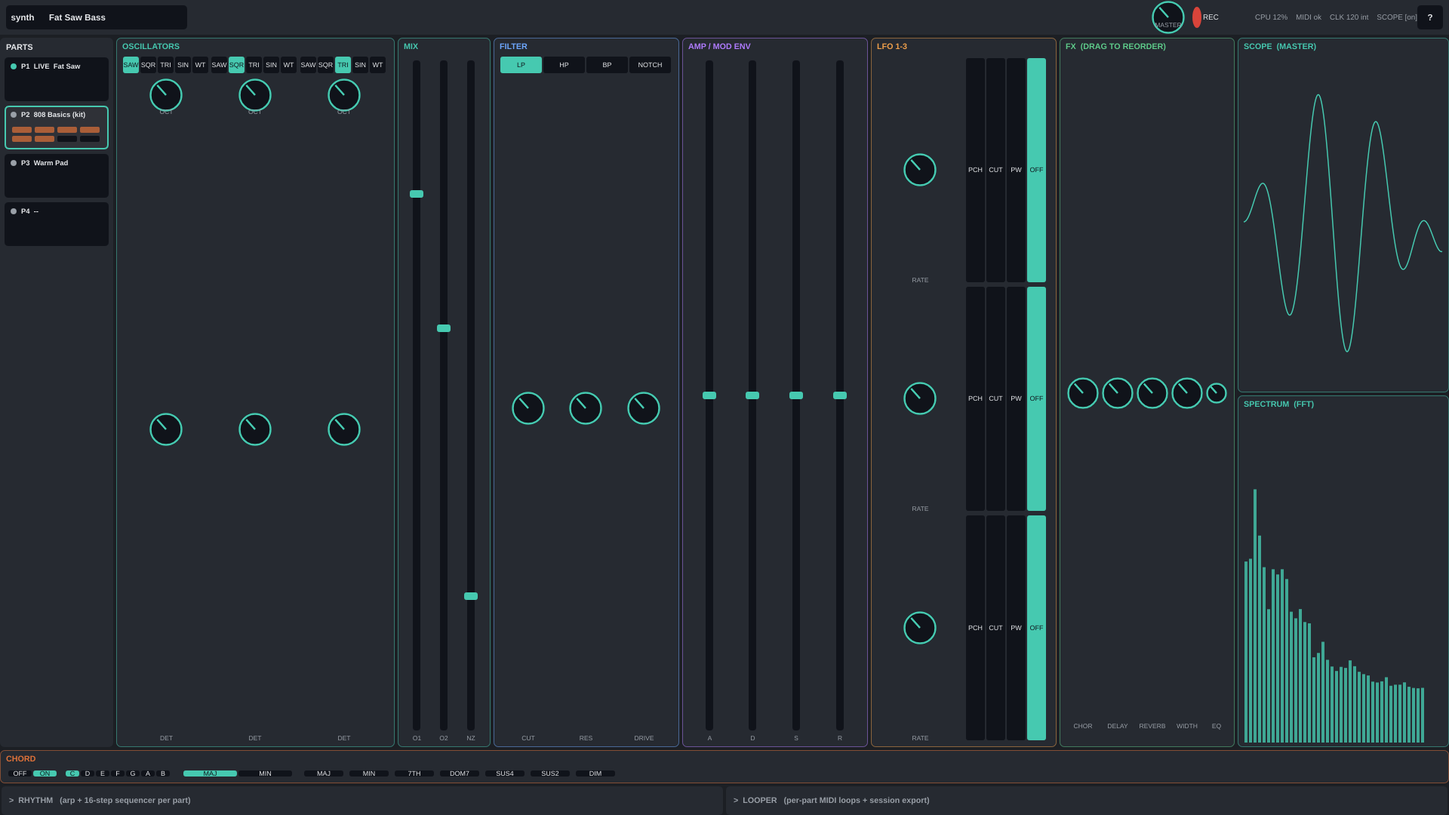
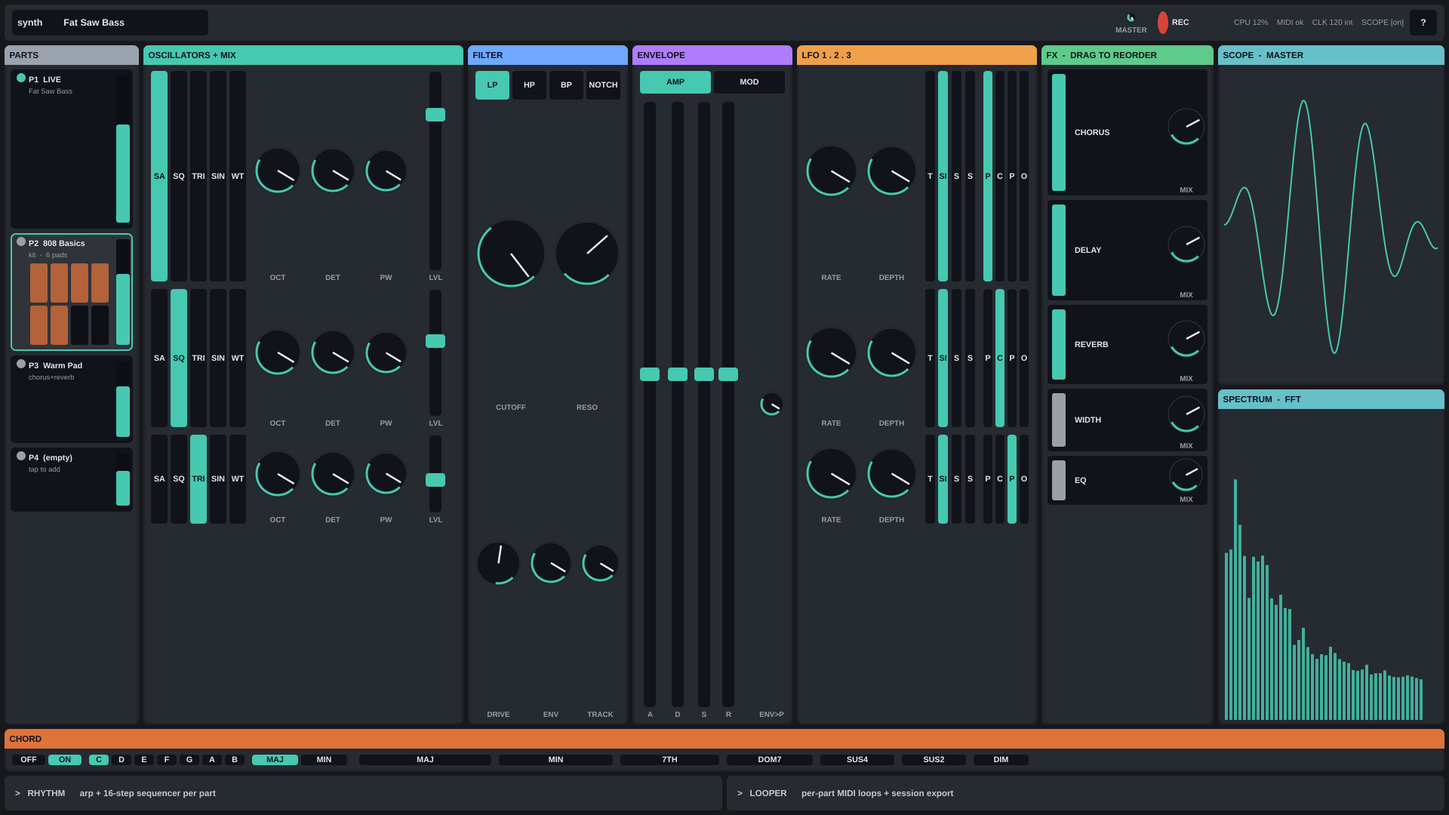
R2 mockup rev2: bigger controls, filled tinted headers, clearer sections
Addressing sign-off feedback (controls too small, unused space, unclear
delineation):
- Filled tinted header bars per section + inset bodies + a darker backdrop so
  sections pop and boundaries are obvious.
- Bigger knobs (value-arc, up to ~104 px), chunkier faders, tall one-tap
  selectors (>=56 px targets). Osc levels folded into each osc row.
- Part rail cells taller: name + subtitle + per-part level fader + kit-pad
  sub-selector seam (P2 kit shown).
Known remaining: tall centre columns still leave some vertical dead space
(few controls per section) — a density/fill tradeoff for user direction.
docs/mockup-*.png regenerated.

diff --git a/tests/plugin/test_layout_mockup.cpp b/tests/plugin/test_layout_mockup.cpp
@@ -1,14 +1,13 @@
 // ============================================================================
 // R2 layout MOCKUP (non-functional). Renders the proposed 1.0 layout so the user
-// can sign off on the arrangement BEFORE any attachments are wired:
-//   - slim top bar (presets, master, REC, scope toggle, indicators, help)
-//   - left PART RAIL (P1-P4, activity flicker, kit-pad sub-selector seam)
-//   - centre panel in signal-flow order (OSC->MIX->FILTER->ENV->LFO->FX)
-//   - right SCOPE + FFT of the master (toggleable, reads while playing)
-//   - bottom strip: horizontal CHORD row + collapsible RHYTHM / LOOPER zones
-//     (collapsed by default; the synth panel reflows into the freed space)
-// Control grammar shown: knobs (continuous), faders (ADSR + mixer), one-tap
-// segmented selectors (discrete), >=56 px touch targets. Rendered to PNGs.
+// can sign off on the arrangement BEFORE any attachments are wired. Revision 2:
+// bigger controls (arm's-length legible, >=56 px touch), sections FILLED top-to-
+// bottom (no dead space), and clear section delineation (filled tinted header bars
+// + inset bodies + gaps). Arrangement: slim top bar; left PART RAIL (P1-P4 +
+// per-part level + kit-pad sub-selector seam); centre in signal-flow order
+// (OSC -> FILTER -> ENV -> LFO -> FX) with osc levels folded into each osc row;
+// right SCOPE + FFT of the master; bottom horizontal CHORD row + collapsed
+// RHYTHM / LOOPER zones. Rendered to PNGs at default/fullscreen/narrow.
 // ============================================================================
 #include <catch2/catch_test_macros.hpp>
 #include <juce_gui_basics/juce_gui_basics.h>
@@ -29,178 +28,218 @@ namespace
     Colour dim     () { return VASynthLookAndFeel::dim(); }
     Colour accent  () { return VASynthLookAndFeel::accent(); }
     Colour track   () { return VASynthLookAndFeel::track(); }
+    Colour ink_on_tint () { return Colour (0xff0e1319); }
 
-    void title (Graphics& g, Rectangle<int> r, const juce::String& t, Colour c)
+    void ctlLabel (Graphics& g, Rectangle<int> r, const juce::String& t)
     {
-        g.setColour (c); g.setFont (juce::Font (juce::FontOptions (12.0f, juce::Font::bold)));
-        g.drawText (t.toUpperCase(), r, juce::Justification::centredLeft, false);
+        g.setColour (dim()); g.setFont (juce::Font (juce::FontOptions (11.0f, juce::Font::bold)));
+        g.drawText (t, r, juce::Justification::centred, false);
     }
 
-    // A titled section box.
+    // A section: a distinct panel with a FILLED tinted header bar (clear delineation)
+    // and an inset body. Returns the padded body rect to fill with controls.
     Rectangle<int> section (Graphics& g, Rectangle<int> r, const juce::String& t, Colour tint)
     {
-        g.setColour (panelLt()); g.fillRoundedRectangle (r.toFloat(), 6.0f);
-        g.setColour (tint.withAlpha (0.5f)); g.drawRoundedRectangle (r.toFloat().reduced (0.5f), 6.0f, 1.0f);
-        title (g, r.reduced (8, 4).removeFromTop (16), t, tint);
-        return r.reduced (8, 6).withTrimmedTop (18);
+        g.setColour (panelLt().darker (0.15f)); g.fillRoundedRectangle (r.toFloat(), 7.0f);
+        auto head = r.removeFromTop (26);
+        g.setColour (tint); g.fillRoundedRectangle (head.toFloat(), 7.0f);
+        g.fillRect (head.withTop (head.getCentreY()));            // square off the header's bottom corners
+        g.setColour (ink_on_tint()); g.setFont (juce::Font (juce::FontOptions (13.0f, juce::Font::bold)));
+        g.drawText ("  " + t.toUpperCase(), head, juce::Justification::centredLeft, false);
+        g.setColour (panelLt()); g.fillRect (r.reduced (3, 0).withTrimmedBottom (3));
+        return r.reduced (8, 6);
     }
 
-    void knob (Graphics& g, Rectangle<int> r, const juce::String& label)
+    // Big knob (fills its cell up to ~72 px) + a value tick ring + label under.
+    void knob (Graphics& g, Rectangle<int> r, const juce::String& label, float v = 0.62f)
     {
-        auto c = r.reduced (2).withSizeKeepingCentre (juce::jmin (r.getWidth() - 4, 44), juce::jmin (r.getWidth() - 4, 44));
-        g.setColour (track()); g.fillEllipse (c.toFloat());
-        g.setColour (accent()); g.drawEllipse (c.toFloat().reduced (1.5f), 2.5f);
-        // pointer
-        const auto ctr = c.toFloat().getCentre(); const float a = -2.3f;
-        g.drawLine (ctr.x, ctr.y, ctr.x + std::cos (a) * c.getWidth() * 0.4f, ctr.y + std::sin (a) * c.getWidth() * 0.4f, 2.5f);
-        g.setColour (dim()); g.setFont (juce::Font (juce::FontOptions (9.5f)));
-        g.drawText (label, r.removeFromBottom (11), juce::Justification::centred, false);
+        auto lab = r.removeFromBottom (14);
+        const int d = juce::jmin (juce::jmin (r.getWidth() - 6, r.getHeight() - 6), 104);
+        auto c = r.withSizeKeepingCentre (d, d).toFloat();
+        g.setColour (track()); g.fillEllipse (c);
+        g.setColour (track().brighter (0.2f)); g.drawEllipse (c.reduced (1.0f), 1.0f);
+        // value arc
+        const auto ctr = c.getCentre(); const float r0 = c.getWidth() * 0.5f - 3.0f;
+        const float a0 = 2.35f, a1 = a0 + v * (2.0f * 3.14159f - 2.0f * 0.8f);
+        juce::Path arc; arc.addCentredArc (ctr.x, ctr.y, r0, r0, 0.0f, a0, a1, true);
+        g.setColour (accent()); g.strokePath (arc, juce::PathStrokeType (3.0f));
+        g.setColour (ink()); g.drawLine (ctr.x, ctr.y, ctr.x + std::cos (a1 + 1.57f) * r0 * 0.9f,
+                                         ctr.y + std::sin (a1 + 1.57f) * r0 * 0.9f, 2.5f);
+        ctlLabel (g, lab, label);
     }
 
     void fader (Graphics& g, Rectangle<int> r, const juce::String& label, float v)
     {
-        auto col = r.withSizeKeepingCentre (10, r.getHeight() - 12).withTrimmedBottom (10);
-        g.setColour (track()); g.fillRoundedRectangle (col.toFloat(), 4.0f);
-        auto thumbY = col.getY() + (int) ((1.0f - v) * col.getHeight());
-        g.setColour (accent()); g.fillRoundedRectangle (Rectangle<int> (col.getX() - 4, thumbY - 5, 18, 10).toFloat(), 3.0f);
-        g.setColour (dim()); g.setFont (juce::Font (juce::FontOptions (9.5f)));
-        g.drawText (label, r.removeFromBottom (11), juce::Justification::centred, false);
+        auto lab = r.removeFromBottom (14);
+        auto col = r.withSizeKeepingCentre (juce::jmin (16, r.getWidth() - 4), r.getHeight() - 6);
+        g.setColour (track()); g.fillRoundedRectangle (col.toFloat(), 5.0f);
+        const int thumbY = col.getY() + (int) ((1.0f - v) * (col.getHeight() - 18));
+        g.setColour (accent()); g.fillRoundedRectangle (Rectangle<int> (col.getX() - 5, thumbY, col.getWidth() + 10, 18).toFloat(), 4.0f);
+        ctlLabel (g, lab, label);
     }
 
-    void selector (Graphics& g, Rectangle<int> r, juce::StringArray opts, int sel)
+    // A tall, chunky one-tap segmented selector (>=56 px cells where width allows).
+    void selector (Graphics& g, Rectangle<int> r, juce::StringArray opts, int sel, bool vertical = false)
     {
-        const int w = r.getWidth() / juce::jmax (1, opts.size());
+        const int n = juce::jmax (1, opts.size());
         for (int i = 0; i < opts.size(); ++i)
         {
-            auto cell = Rectangle<int> (r.getX() + i * w, r.getY(), w, r.getHeight()).reduced (1);
-            g.setColour (i == sel ? accent() : track()); g.fillRoundedRectangle (cell.toFloat(), 3.0f);
-            g.setColour (i == sel ? Colour (0xff10161c) : ink()); g.setFont (juce::Font (juce::FontOptions (10.0f)));
+            auto cell = vertical ? Rectangle<int> (r.getX(), r.getY() + i * r.getHeight() / n, r.getWidth(), r.getHeight() / n).reduced (2)
+                                 : Rectangle<int> (r.getX() + i * r.getWidth() / n, r.getY(), r.getWidth() / n, r.getHeight()).reduced (2);
+            g.setColour (i == sel ? accent() : track()); g.fillRoundedRectangle (cell.toFloat(), 4.0f);
+            g.setColour (i == sel ? ink_on_tint() : ink()); g.setFont (juce::Font (juce::FontOptions (12.0f, juce::Font::bold)));
             g.drawText (opts[i], cell, juce::Justification::centred, false);
         }
     }
 
-    // ---- the mockup ----------------------------------------------------------
+    Rectangle<int> takeL (Rectangle<int>& r, int w) { auto c = r.removeFromLeft (w); r.removeFromLeft (6); return c; }
+    Rectangle<int> takeT (Rectangle<int>& r, int h) { auto c = r.removeFromTop (h);  r.removeFromTop (6);  return c; }
+
     struct LayoutMockup : public juce::Component
     {
         void paint (Graphics& g) override
         {
-            g.fillAll (panel());
-            auto area = getLocalBounds();
+            g.fillAll (panel().darker (0.25f));                 // darker backdrop -> sections pop
+            auto area = getLocalBounds().reduced (6);
             const auto tOsc = accent(), tFilt = Colour (0xff6ea8ff), tEnv = Colour (0xffb07cff),
-                       tLfo = Colour (0xfff0a04b), tFx = Colour (0xff5ecb8a), tChord = Colour (0xffe0733a);
+                       tLfo = Colour (0xfff0a04b), tFx = Colour (0xff5ecb8a), tChord = Colour (0xffe0733a),
+                       tViz = Colour (0xff67c0c8), tParts = Colour (0xff9aa3ad);
 
             // --- slim top bar ---------------------------------------------------
-            auto top = area.removeFromTop (46);
-            g.setColour (panelLt()); g.fillRect (top);
-            auto tb = top.reduced (8, 7);
-            auto preset = tb.removeFromLeft (240); g.setColour (track()); g.fillRoundedRectangle (preset.toFloat(), 5.0f);
-            g.setColour (ink()); g.setFont (juce::Font (juce::FontOptions (13.0f, juce::Font::bold)));
-            g.drawText ("  synth      Fat Saw Bass", preset, juce::Justification::centredLeft, false);
-            auto help = tb.removeFromRight (34); g.setColour (track()); g.fillRoundedRectangle (help.toFloat(), 5.0f);
+            auto top = area.removeFromTop (48);
+            g.setColour (panelLt()); g.fillRoundedRectangle (top.toFloat(), 6.0f);
+            auto tb = top.reduced (10, 7);
+            auto preset = tb.removeFromLeft (260); g.setColour (track()); g.fillRoundedRectangle (preset.toFloat(), 5.0f);
+            g.setColour (ink()); g.setFont (juce::Font (juce::FontOptions (14.0f, juce::Font::bold)));
+            g.drawText ("  synth        Fat Saw Bass", preset, juce::Justification::centredLeft, false);
+            auto help = tb.removeFromRight (36); g.setColour (track()); g.fillRoundedRectangle (help.toFloat(), 5.0f);
             g.setColour (ink()); g.drawText ("?", help, juce::Justification::centred, false);
-            auto ind = tb.removeFromRight (230);
-            g.setColour (dim()); g.setFont (juce::Font (juce::FontOptions (11.0f)));
+            tb.removeFromRight (8);
+            auto ind = tb.removeFromRight (250);
+            g.setColour (dim()); g.setFont (juce::Font (juce::FontOptions (11.5f)));
             g.drawText ("CPU 12%    MIDI ok    CLK 120 int    SCOPE [on]", ind, juce::Justification::centredRight, false);
-            auto rec = tb.removeFromRight (70); g.setColour (Colour (0xffd8443a)); g.fillEllipse (rec.removeFromLeft (16).toFloat().reduced (2));
-            g.setColour (ink()); g.drawText ("REC", rec, juce::Justification::centredLeft, false);
-            knob (g, tb.removeFromRight (60), "MASTER");
-
-            area.removeFromTop (4);
+            auto rec = tb.removeFromRight (78); g.setColour (Colour (0xffd8443a)); g.fillEllipse (rec.removeFromLeft (18).toFloat().reduced (2));
+            g.setColour (ink()); g.setFont (juce::Font (juce::FontOptions (12.0f, juce::Font::bold))); g.drawText (" REC", rec, juce::Justification::centredLeft, false);
+            knob (g, tb.removeFromRight (66), "MASTER", 0.7f);
+            area.removeFromTop (6);
 
             // --- bottom strip: CHORD row + collapsed RHYTHM / LOOPER -----------
-            auto bottom = area.removeFromBottom (86);
+            auto bottom = area.removeFromBottom (108);
             {
-                auto chord = bottom.removeFromTop (44);
-                auto cbox = section (g, chord, "Chord", tChord);
-                selector (g, cbox.removeFromLeft (70).reduced (2), { "OFF", "ON" }, 1); cbox.removeFromLeft (6);
-                selector (g, cbox.removeFromLeft (150).reduced (2), { "C","D","E","F","G","A","B" }, 0); cbox.removeFromLeft (6);
-                selector (g, cbox.removeFromLeft (150).reduced (2), { "MAJ", "MIN" }, 0); cbox.removeFromLeft (10);
-                for (auto* m : { "MAJ","MIN","7TH","DOM7","SUS4","SUS2","DIM" })
-                { selector (g, cbox.removeFromLeft (58).reduced (2), { m }, -1); cbox.removeFromLeft (2); }
-                bottom.removeFromTop (4);
-                auto zones = bottom;
-                auto rhythm = zones.removeFromLeft (zones.getWidth() / 2).reduced (0, 0);
-                auto looper = zones;
-                for (auto z : { std::pair<Rectangle<int>, juce::String> { rhythm, ">  RHYTHM   (arp + 16-step sequencer per part)" },
-                                std::pair<Rectangle<int>, juce::String> { looper, ">  LOOPER   (per-part MIDI loops + session export)" } })
+                auto chord = bottom.removeFromTop (56);
+                auto c = section (g, chord, "Chord", tChord);
+                selector (g, takeL (c, 96), { "OFF", "ON" }, 1);
+                selector (g, takeL (c, 210), { "C","D","E","F","G","A","B" }, 0);
+                selector (g, takeL (c, 130), { "MAJ", "MIN" }, 0);
+                c.removeFromLeft (6);
+                for (auto* m : { "MAJ","MIN","7TH","DOM7","SUS4","SUS2","DIM" }) selector (g, takeL (c, juce::jmax (60, c.getWidth()/8)), { m }, -1);
+                bottom.removeFromTop (6);
+                auto rhythm = takeL (bottom, bottom.getWidth() / 2 - 3);
+                for (auto z : { std::pair<Rectangle<int>, juce::String> { rhythm, ">   RHYTHM      arp + 16-step sequencer per part" },
+                                std::pair<Rectangle<int>, juce::String> { bottom, ">   LOOPER      per-part MIDI loops + session export" } })
                 {
-                    g.setColour (panelLt()); g.fillRoundedRectangle (z.first.reduced (2, 0).toFloat(), 5.0f);
-                    g.setColour (dim()); g.setFont (juce::Font (juce::FontOptions (12.0f, juce::Font::bold)));
-                    g.drawText (z.second, z.first.reduced (12, 0), juce::Justification::centredLeft, false);
+                    g.setColour (panelLt()); g.fillRoundedRectangle (z.first.toFloat(), 6.0f);
+                    g.setColour (ink().withAlpha (0.85f)); g.setFont (juce::Font (juce::FontOptions (13.0f, juce::Font::bold)));
+                    g.drawText (z.second, z.first.reduced (14, 0), juce::Justification::centredLeft, false);
                 }
             }
-            area.removeFromBottom (4);
+            area.removeFromBottom (6);
 
-            // --- left PART RAIL -------------------------------------------------
-            auto rail = area.removeFromLeft (150);
-            g.setColour (panelLt()); g.fillRoundedRectangle (rail.toFloat(), 6.0f);
-            title (g, rail.reduced (8, 6).removeFromTop (14), "Parts", ink());
-            auto rl = rail.reduced (6).withTrimmedTop (20);
-            const char* pnames[] { "P1  LIVE  Fat Saw", "P2  808 Basics (kit)", "P3  Warm Pad", "P4  --" };
-            for (int i = 0; i < 4; ++i)
+            // --- left PART RAIL (taller cells: name + level fader + kit pads) ---
+            auto rail = takeL (area, 178);
             {
-                auto cell = rl.removeFromTop (58); rl.removeFromTop (6);
-                const bool selp = i == 1;
-                g.setColour (selp ? track().brighter (0.15f) : track()); g.fillRoundedRectangle (cell.toFloat(), 5.0f);
-                if (selp) { g.setColour (accent()); g.drawRoundedRectangle (cell.toFloat().reduced (1), 5.0f, 2.0f); }
-                g.setColour (i == 0 ? accent() : dim()); g.fillEllipse (cell.getX() + 8.0f, cell.getY() + 8.0f, 8.0f, 8.0f);
-                g.setColour (ink()); g.setFont (juce::Font (juce::FontOptions (10.5f, juce::Font::bold)));
-                g.drawText (pnames[i], cell.reduced (22, 4).removeFromTop (16), juce::Justification::centredLeft, true);
-                if (selp)   // kit-pad sub-selector seam (P2 is a kit)
+                auto rl = section (g, rail, "Parts", tParts);
+                const char* pn[]  { "P1  LIVE", "P2  808 Basics", "P3  Warm Pad", "P4  (empty)" };
+                const char* sub[] { "Fat Saw Bass", "kit  -  6 pads", "chorus+reverb", "tap to add" };
+                for (int i = 0; i < 4; ++i)
                 {
-                    auto grid = cell.reduced (8).withTrimmedTop (18);
-                    for (int p = 0; p < 8; ++p)
+                    auto cell = takeT (rl, (rl.getHeight() - 18) / 4);
+                    const bool selp = i == 1;
+                    g.setColour (selp ? track().brighter (0.16f) : track()); g.fillRoundedRectangle (cell.toFloat(), 6.0f);
+                    if (selp) { g.setColour (accent()); g.drawRoundedRectangle (cell.toFloat().reduced (1), 6.0f, 2.0f); }
+                    auto lvl = cell.removeFromRight (26).reduced (4, 8);   // per-part level
+                    g.setColour (track().darker (0.3f)); g.fillRoundedRectangle (lvl.toFloat(), 3.0f);
+                    g.setColour (accent()); g.fillRoundedRectangle (lvl.withTrimmedTop (lvl.getHeight() / 3).toFloat(), 3.0f);
+                    auto body = cell.reduced (8, 5);
+                    g.setColour (i == 0 ? accent() : dim()); g.fillEllipse (body.removeFromLeft (12).removeFromTop (12).toFloat());
+                    g.setColour (ink()); g.setFont (juce::Font (juce::FontOptions (12.0f, juce::Font::bold)));
+                    g.drawText (pn[i], body.removeFromTop (17).withTrimmedLeft (4), juce::Justification::centredLeft, false);
+                    g.setColour (dim()); g.setFont (juce::Font (juce::FontOptions (10.5f)));
+                    g.drawText (sub[i], body.removeFromTop (14).withTrimmedLeft (4), juce::Justification::centredLeft, false);
+                    if (selp)   // kit-pad sub-selector seam (4x2 pads)
                     {
-                        auto pad = Rectangle<int> (grid.getX() + (p % 4) * (grid.getWidth() / 4),
-                                                   grid.getY() + (p / 4) * (grid.getHeight() / 2),
-                                                   grid.getWidth() / 4, grid.getHeight() / 2).reduced (2);
-                        g.setColour (p < 6 ? tChord.withAlpha (0.7f) : track()); g.fillRoundedRectangle (pad.toFloat(), 2.0f);
+                        auto grid = body.withTrimmedTop (2);
+                        for (int p = 0; p < 8; ++p)
+                        {
+                            auto pad = Rectangle<int> (grid.getX() + 4 + (p % 4) * (grid.getWidth() / 4),
+                                                       grid.getY() + (p / 4) * (grid.getHeight() / 2),
+                                                       grid.getWidth() / 4, grid.getHeight() / 2).reduced (2);
+                            g.setColour (p < 6 ? tChord.withAlpha (0.75f) : track().darker (0.2f)); g.fillRoundedRectangle (pad.toFloat(), 3.0f);
+                        }
                     }
                 }
             }
-            area.removeFromLeft (4);
 
             // --- right SCOPE + FFT ---------------------------------------------
-            auto viz = area.removeFromRight (280);
+            auto viz = area.removeFromRight (300); area.removeFromRight (6);
             {
-                auto scope = viz.removeFromTop (viz.getHeight() / 2).reduced (0, 0);
-                auto sbox = section (g, scope, "Scope  (master)", accent());
-                g.setColour (accent()); juce::Path wave; wave.startNewSubPath (sbox.getX(), sbox.getCentreY());
-                for (int x = 0; x < sbox.getWidth(); ++x)
-                    wave.lineTo (sbox.getX() + x, sbox.getCentreY() - std::sin (x * 0.08f) * std::sin (x * 0.013f) * sbox.getHeight() * 0.4f);
-                g.strokePath (wave, juce::PathStrokeType (1.5f));
-                viz.removeFromTop (4);
-                auto fbox = section (g, viz, "Spectrum  (FFT)", accent());
-                juce::Random rng (7);
-                const int bars = 40, bw = fbox.getWidth() / bars;
+                auto scope = viz.removeFromTop (viz.getHeight() / 2); viz.removeFromTop (6);
+                auto sb = section (g, scope, "Scope  -  master", tViz);
+                g.setColour (accent()); juce::Path w; w.startNewSubPath ((float) sb.getX(), (float) sb.getCentreY());
+                for (int x = 0; x < sb.getWidth(); ++x)
+                    w.lineTo ((float) (sb.getX() + x), sb.getCentreY() - std::sin (x * 0.075f) * std::sin (x * 0.012f) * sb.getHeight() * 0.42f);
+                g.strokePath (w, juce::PathStrokeType (2.0f));
+                auto fb = section (g, viz, "Spectrum  -  FFT", tViz);
+                juce::Random rng (7); const int bars = 44, bw = fb.getWidth() / bars;
                 for (int b = 0; b < bars; ++b)
-                {
-                    float h = fbox.getHeight() * (0.15f + 0.8f * std::exp (-b * 0.09f) * (0.5f + 0.5f * rng.nextFloat()));
-                    g.setColour (accent().withAlpha (0.8f));
-                    g.fillRect (Rectangle<float> (fbox.getX() + b * bw + 1.0f, fbox.getBottom() - h, bw - 2.0f, h));
-                }
+                { float h = fb.getHeight() * (0.12f + 0.85f * std::exp (-b * 0.085f) * (0.5f + 0.5f * rng.nextFloat()));
+                  g.setColour (accent().withAlpha (0.85f)); g.fillRect (Rectangle<float> ((float) (fb.getX() + b * bw + 1), fb.getBottom() - h, bw - 2.0f, h)); }
             }
-            area.removeFromRight (4);
 
-            // --- centre panel, signal-flow order -------------------------------
+            // --- centre panel, signal-flow order, sections FILLED --------------
             auto centre = area;
-            auto col = [&] (int w) { auto c = centre.removeFromLeft (w); centre.removeFromLeft (4); return c; };
-            const int u = juce::jmax (60, centre.getWidth() / 12);   // reflow unit
+            const int u = juce::jmax (74, (centre.getWidth() - 5 * 6) / 13);
 
-            { auto s = section (g, col (u * 3), "Oscillators", tOsc);
-              for (int i = 0; i < 3; ++i) { auto r = s.removeFromLeft (s.getWidth() / (3 - i)); selector (g, r.removeFromTop (24), { "SAW","SQR","TRI","SIN","WT" }, i % 5);
-                knob (g, r.removeFromTop (56), "OCT"); knob (g, r, "DET"); } }
-            { auto s = section (g, col (u * 1), "Mix", tOsc);
-              fader (g, s.removeFromLeft (s.getWidth()/3), "O1", 0.8f); fader (g, s.removeFromLeft (s.getWidth()/2), "O2", 0.6f); fader (g, s, "NZ", 0.2f); }
-            { auto s = section (g, col (u * 2), "Filter", tFilt);
-              selector (g, s.removeFromTop (24), { "LP","HP","BP","NOTCH" }, 0);
-              knob (g, s.removeFromLeft (s.getWidth()/3), "CUT"); knob (g, s.removeFromLeft (s.getWidth()/2), "RES"); knob (g, s, "DRIVE"); }
-            { auto s = section (g, col (u * 2), "Amp / Mod Env", tEnv);
-              for (auto* l : { "A","D","S","R" }) fader (g, s.removeFromLeft (s.getWidth() / (l[0]=='R'?1: (l[0]=='A'?4:(l[0]=='D'?3:2)))), l, 0.5f); }
-            { auto s = section (g, col (u * 2), "LFO 1-3", tLfo);
-              for (int i = 0; i < 3; ++i) { auto r = s.removeFromTop (s.getHeight()/(3-i)); knob (g, r.removeFromLeft (r.getWidth()/2), "RATE"); selector (g, r.reduced(2), { "PCH","CUT","PW","OFF" }, 3); } }
-            { auto s = section (g, centre, "FX  (drag to reorder)", tFx);
-              for (auto* l : { "CHOR","DELAY","REVERB","WIDTH","EQ" }) { auto r = s.removeFromLeft (juce::jmax (46, s.getWidth()/5)); knob (g, r.removeFromTop (r.getHeight()-16), l); } }
+            // OSCILLATORS: three osc rows, each Wave selector + Oct/Det/PW knobs + Level fader.
+            { auto s = section (g, takeL (centre, u * 4), "Oscillators + Mix", tOsc);
+              for (int i = 0; i < 3; ++i)
+              { auto row = takeT (s, (s.getHeight() - 12) / 3);
+                selector (g, takeL (row, 130), { "SAW","SQR","TRI","SIN","WT" }, i);
+                knob (g, takeL (row, row.getWidth()/4), "OCT"); knob (g, takeL (row, row.getWidth()/3), "DET");
+                knob (g, takeL (row, row.getWidth()/2), "PW"); fader (g, row, "LVL", 0.8f - i * 0.2f); } }
+
+            // FILTER: type selector, then two filled rows (Cut/Res, then Drive/Env/Track).
+            { auto s = section (g, takeL (centre, u * 2), "Filter", tFilt);
+              selector (g, takeT (s, 42), { "LP","HP","BP","NOTCH" }, 0);
+              auto r1 = takeT (s, s.getHeight() / 2);
+              knob (g, takeL (r1, r1.getWidth()/2), "CUTOFF", 0.7f); knob (g, r1, "RESO", 0.35f);
+              knob (g, takeL (s, s.getWidth()/3), "DRIVE", 0.2f); knob (g, takeL (s, s.getWidth()/2), "ENV"); knob (g, s, "TRACK"); }
+
+            // ENV: Amp/Mod tab, then four big ADSR faders + env->pitch knob.
+            { auto s = section (g, takeL (centre, u * 2), "Envelope", tEnv);
+              selector (g, takeT (s, 34), { "AMP","MOD" }, 0);
+              auto k = s.removeFromRight (s.getWidth()/5);
+              for (auto* l : { "A","D","S","R" }) fader (g, takeL (s, s.getWidth()/(5 - (l[0]=='A'?0:l[0]=='D'?1:l[0]=='S'?2:3)) ), l, 0.55f);
+              knob (g, k, "ENV>PCH"); }
+
+            // LFO 1-3: three rows, each Rate + Depth knobs + Shape + Dest selectors.
+            { auto s = section (g, takeL (centre, u * 3), "LFO 1 . 2 . 3", tLfo);
+              for (int i = 0; i < 3; ++i)
+              { auto row = takeT (s, (s.getHeight() - 12) / 3);
+                knob (g, takeL (row, row.getWidth()/4), "RATE"); knob (g, takeL (row, row.getWidth()/3), "DEPTH");
+                selector (g, takeL (row, row.getWidth()/2), { "TRI","SIN","SQR","S&H" }, 1);
+                selector (g, row, { "PCH","CUT","PW","OFF" }, i); } }
+
+            // FX: five stacked blocks, each on/off + name + mix knob (drag to reorder).
+            { auto s = section (g, centre, "FX  -  drag to reorder", tFx);
+              const char* fx[] { "CHORUS","DELAY","REVERB","WIDTH","EQ" };
+              for (int i = 0; i < 5; ++i)
+              { auto row = takeT (s, (s.getHeight() - 24) / 5);
+                g.setColour (track()); g.fillRoundedRectangle (row.toFloat(), 5.0f);
+                auto tog = row.removeFromLeft (30).reduced (6); g.setColour (i < 3 ? accent() : dim()); g.fillRoundedRectangle (tog.toFloat(), 3.0f);
+                g.setColour (ink()); g.setFont (juce::Font (juce::FontOptions (12.0f, juce::Font::bold)));
+                g.drawText (fx[i], row.removeFromLeft (row.getWidth() - 56).withTrimmedLeft (6), juce::Justification::centredLeft, false);
+                knob (g, row, "MIX", 0.4f); } }
         }
     };
 
@@ -219,7 +258,7 @@ namespace
 TEST_CASE ("R2 layout mockup renders at default / fullscreen / narrow", "[plugin][mockup][screenshot]")
 {
     juce::ScopedJuceInitialiser_GUI init;
-    render (1500, 820, "mockup-default.png");
+    render (1500, 860, "mockup-default.png");
     render (1920, 1080, "mockup-fullscreen.png");
-    render (1120, 660, "mockup-narrow.png");
+    render (1120, 700, "mockup-narrow.png");
 }
